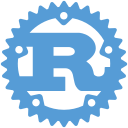
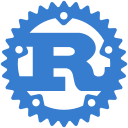
Much better

diff --git a/CHANGELOG.md b/CHANGELOG.md
@@ -1,5 +1,9 @@
 # Change Log
 
+## 0.0.8
+- Updated icon.
+- Improved highlighting for type params.
+
 ## 0.0.7
 - Fixed issue where `.` wasn't highlighted when preceded by a paren.
 - Added items to todo.txt.
@@ -18,7 +22,7 @@
 
 ## 0.0.5
 - Fixed an issue with comments.
-- defined `,` as `punctuation.comma`.
+- Defined `,` as `punctuation.comma`.
 - Defined `;` as `punctuation.terminaor`.
 - Defined `::`  as *path* operator.
 - Defined `=>` as *match* operator.
